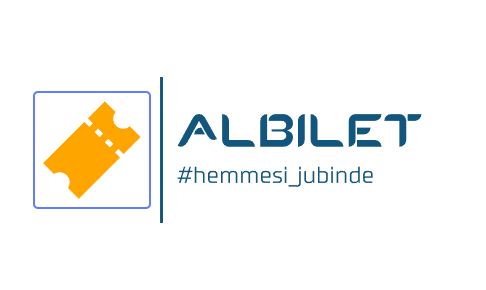
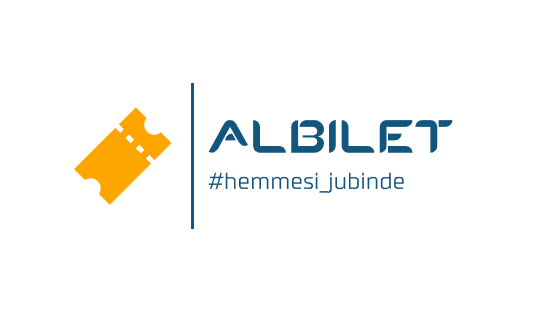
welcome page is finished

Changed region(s): [[0.0617, 0.2483, 0.8642, 0.7759]]

diff --git a/lib/pages/welcome_page/presentation/welcome_page.dart b/lib/pages/welcome_page/presentation/welcome_page.dart
@@ -2,6 +2,7 @@ import 'package:flutter/material.dart';
 import 'package:flutter_gen/gen_l10n/app_localizations.dart';
 import 'package:online_library/pages/sing_in_page/presentation/login_page.dart';
 import 'package:online_library/pages/sing_up_page/presentation/sing_up_page.dart';
+import 'package:online_library/tools/colors/albilet_colors.dart';
 import 'package:online_library/widgets/style_button_widget.dart';
 
 class WelcomePage extends StatefulWidget {
@@ -15,7 +16,7 @@ class _WelcomePageState extends State<WelcomePage> {
   @override
   Widget build(BuildContext context) {
     return Scaffold(
-      backgroundColor: const Color.fromRGBO(249, 238, 240, 1),
+      backgroundColor: AppColors.white,
       body: SafeArea(
           child: Padding(
         padding: const EdgeInsets.symmetric(horizontal: 15),
@@ -36,9 +37,9 @@ class _WelcomePageState extends State<WelcomePage> {
                 height: 30,
               ),
               StyleButtonWidget(
-                buttonColor: const Color.fromRGBO(13, 57, 52, 1),
-                buttonBorderColor: Colors.white,
-                buttonTextColor: Colors.white,
+                buttonColor: AppColors.mainYellow,
+                buttonBorderColor: AppColors.white,
+                buttonTextColor: AppColors.white,
                 buttonName: AppLocalizations.of(context)!.logIn,
                 onTap: () {
                   Navigator.push(
@@ -51,9 +52,9 @@ class _WelcomePageState extends State<WelcomePage> {
                 height: 10,
               ),
               StyleButtonWidget(
-                buttonColor: Colors.white,
-                buttonBorderColor: const Color.fromRGBO(13, 57, 52, 1),
-                buttonTextColor: const Color.fromRGBO(13, 57, 52, 1),
+                buttonColor: AppColors.mainBlue,
+                buttonBorderColor: AppColors.mainYellow,
+                buttonTextColor: AppColors.white,
                 buttonName: AppLocalizations.of(context)!.createAccaunt,
                 onTap: () {
                   Navigator.push(

diff --git a/lib/tools/colors/albilet_colors.dart b/lib/tools/colors/albilet_colors.dart
@@ -1,0 +1,7 @@
+import 'package:flutter/material.dart';
+
+class AppColors {
+  static Color mainYellow = const Color.fromRGBO(255, 165, 0, 1);
+  static Color white = const Color.fromRGBO(255, 255, 255, 1);
+  static Color mainBlue = const Color.fromRGBO(18, 85, 125, 1);
+}
